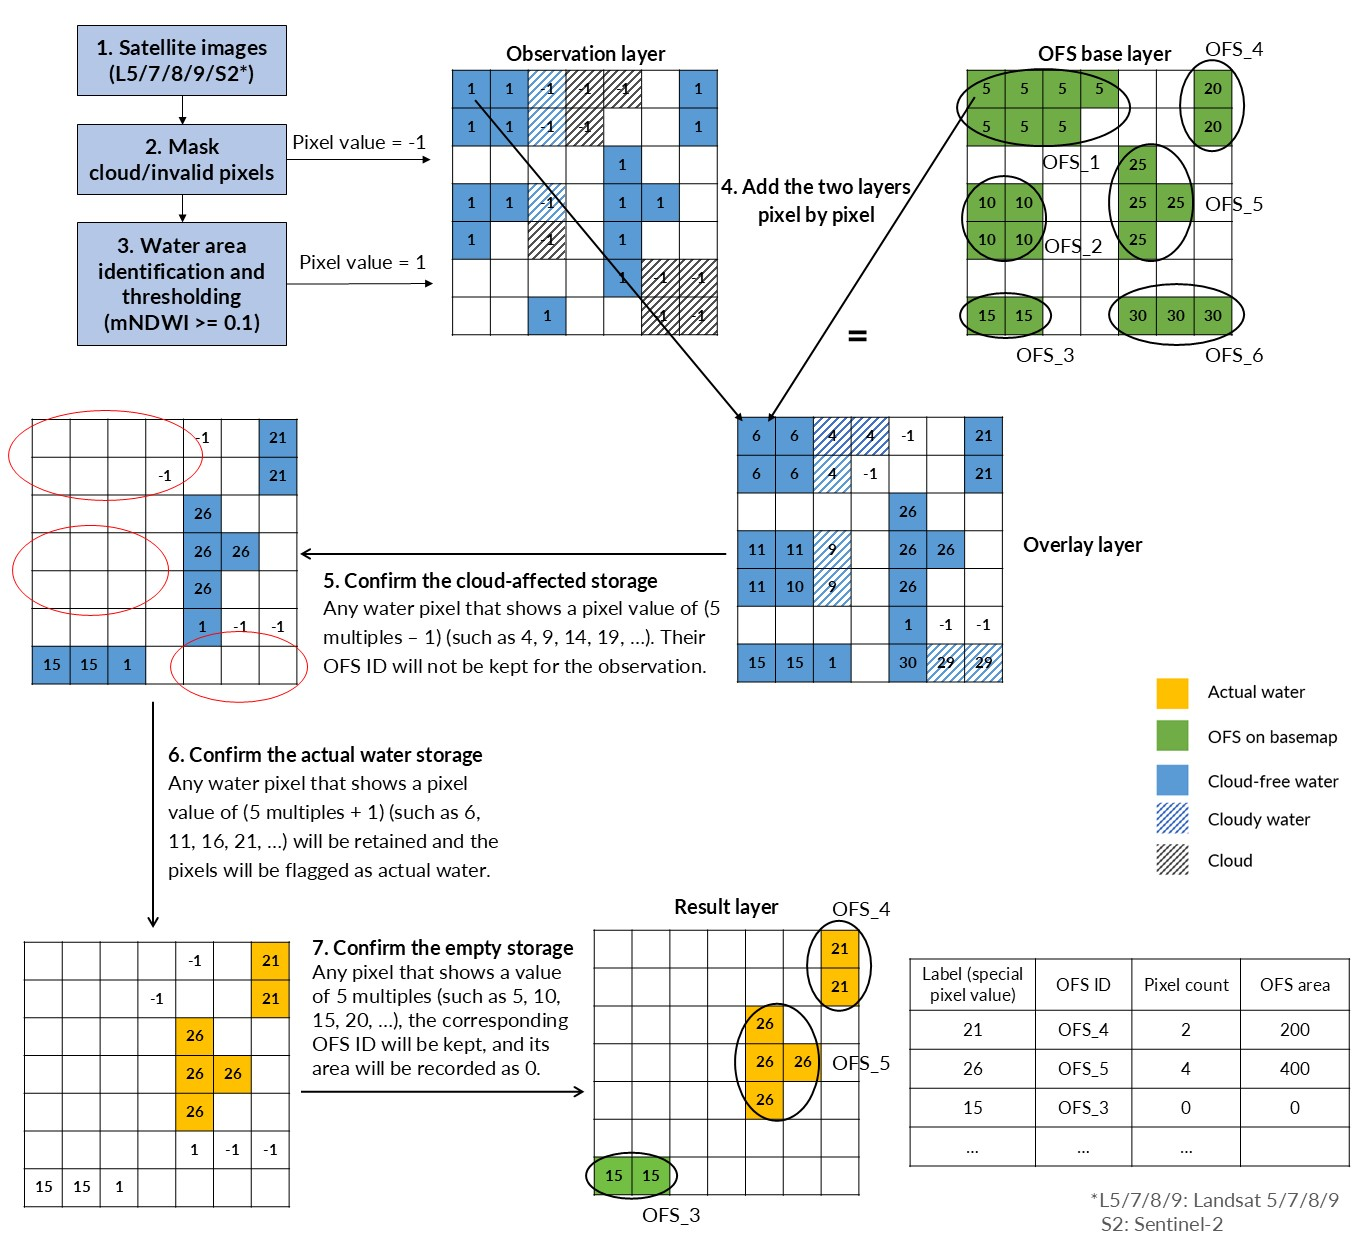
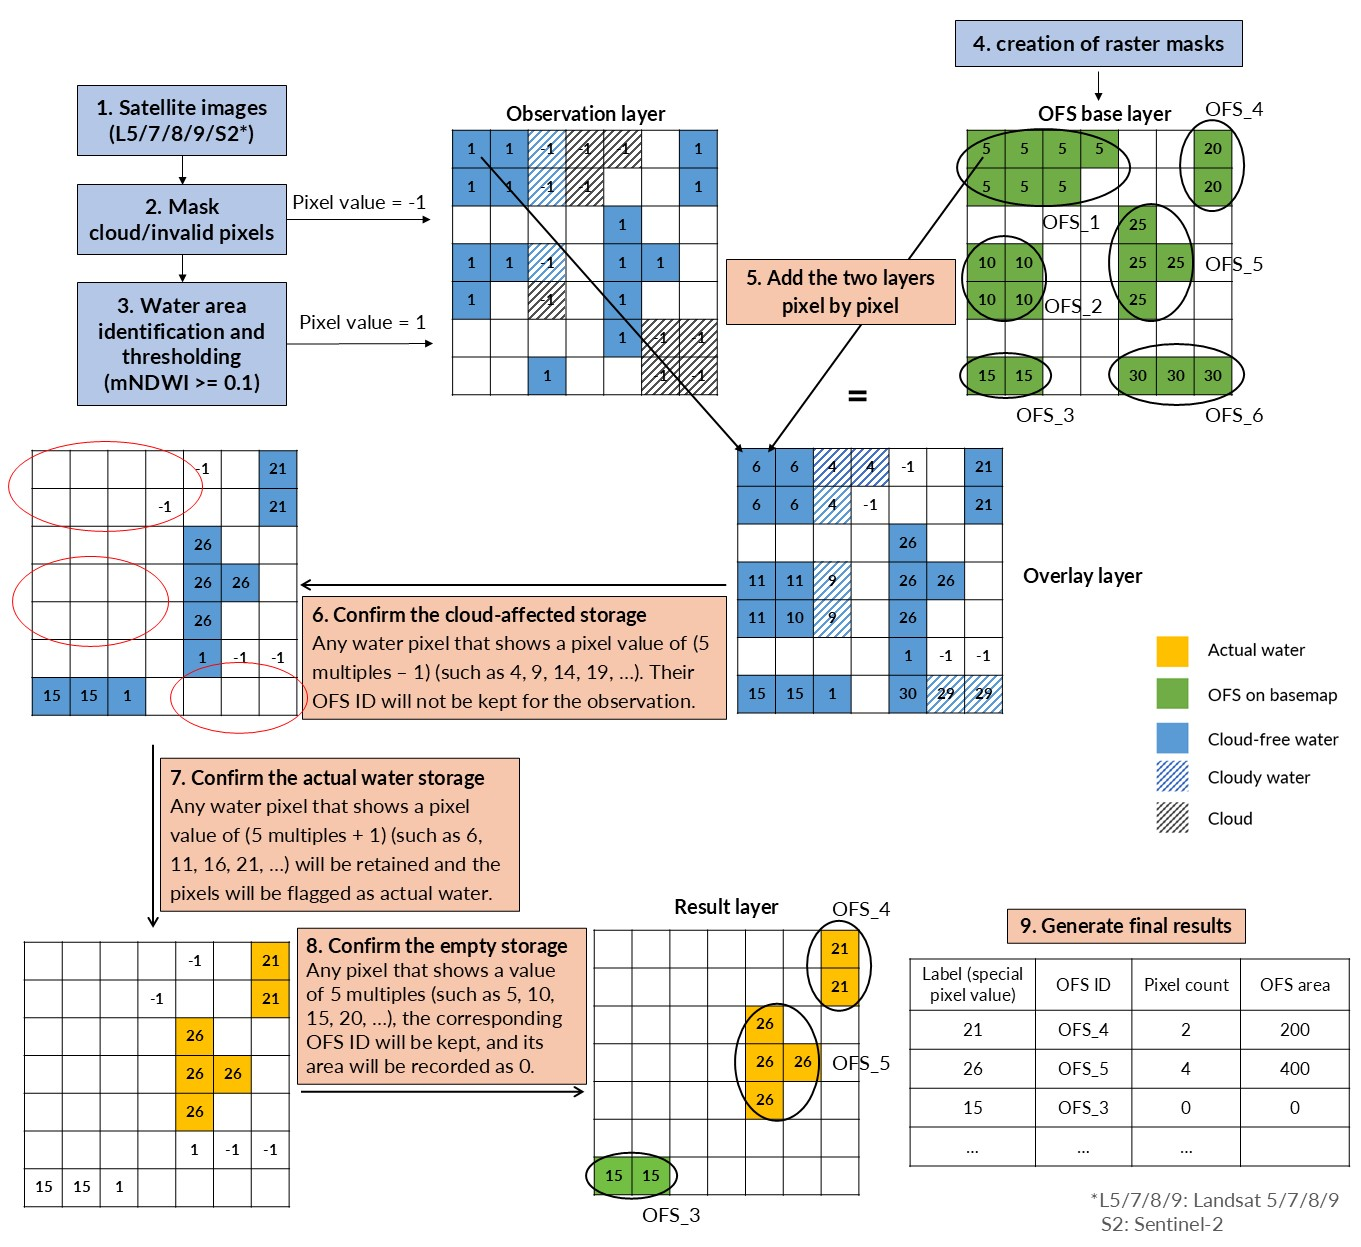
Minor changes to manuscript

diff --git a/paper/paper.md b/paper/paper.md
@@ -70,21 +70,33 @@ Figure 1. Water surface area detection in a reservoir from a Sentinel-2 satellit
 
 # Efficient cloud computing process
 
+The efficient cloud computing workflow consists of nine steps (Figure 2). The first four steps involve preparing the satellite imagery, quality control masks, water surface area detection, and the creation of rasterised polygon layers. The following five steps retrieve the quality-controled time-series water surface area from available satellite images and generate the final results.
+
 <p align="justify">
-<img src="./figure2.jpg" alt="drawing" width="700"/><br>
+<img src="./figure2.jpg" alt="drawing" width="800"/><br>
 Figure 2. Raster-based operation workflow.
 </p>
 
 ## Water and Cloud masking
 
-Explain how water masks are generated
-Explain how cloud masks are generated (311 QA_PIXEL and s2cloudless prob < 0.4>)
-No images are filtered out from the collection
+- Explain how water masks are generated
+- Explain how cloud masks are generated (311 QA_PIXEL and s2cloudless prob < 0.4>)
+- No images are filtered out from the collection
+
+The generation of quality control masks (Step 2 in Figure 2) accounted for cloud contamination and scan line gaps in Landsat 7 imagery. The COPERNICUS/S2_CLOUD_PROBABILITY dataset (s2cloudless) was used to mask clouds in Sentinel-2 imagery, with any pixel having a cloud probability greater than 40% marked as cloudy. In the Landsat dataset, the QA_PIXEL and QA_RADSAT bands were used to mask cloudy pixels. Both cloudy pixels and those affected by the Landsat 7 scan line issue were assigned a value of -1.
+
+The generation of the water mask (Step 3 in Figure 2) was based on the binary water surface layer calculated using the MNDWI with a threshold of 0.1. Any pixel with an MNDWI value $\geq$ 0.1 was assgined a value of 1.
+
+These two steps jointly generate an observation layer for each available satellite image, which can then be combined with the raster base layer to retrieve the water surface area.
 
 ## Raster-based processing
 
-Explain creation of raster masks (refer to notebook)
-Explain raster operations (only sum and subtraction of rasters)
+- Explain creation of raster masks (refer to notebook)
+- Explain raster operations (only sum and subtraction of rasters)
+
+**TODO (kvos):** The creation of raster masks (Step 4 in Figure 2) ...
+
+The observation layer and the raster base layer can then be added pixel by pixel to generate the overlay layer, which can be used to determine the quality-controled water surface area. Firstly is to confirm the cloud or scan line gaps affected water surface area. Any pixel that shows a pixel value of (5 multiples - 1)
 
 ## Scheduling and Post-processing
 
